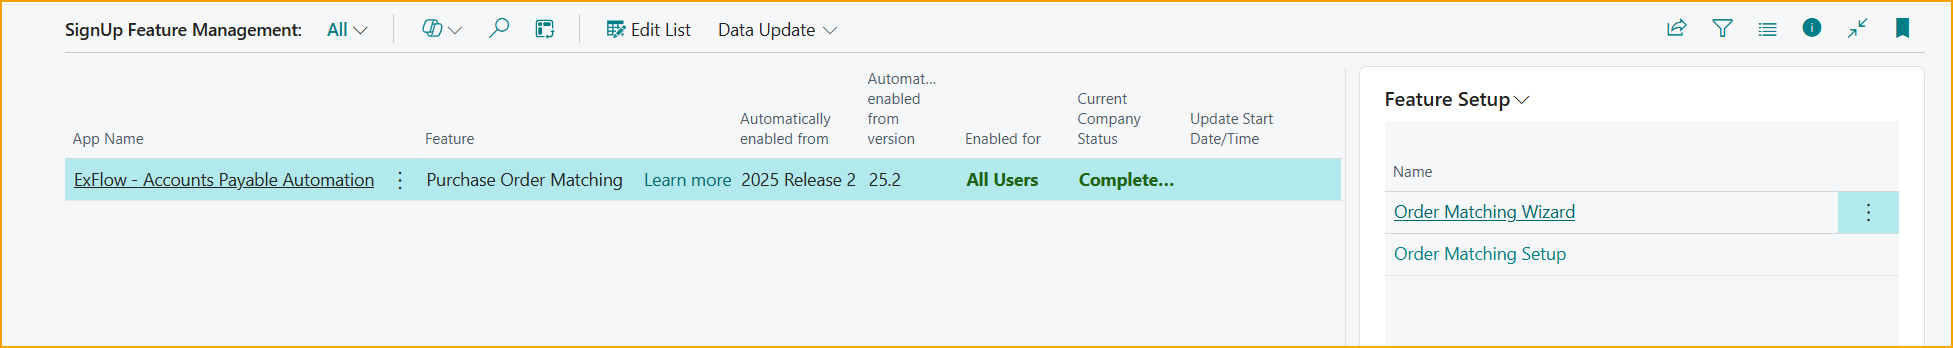
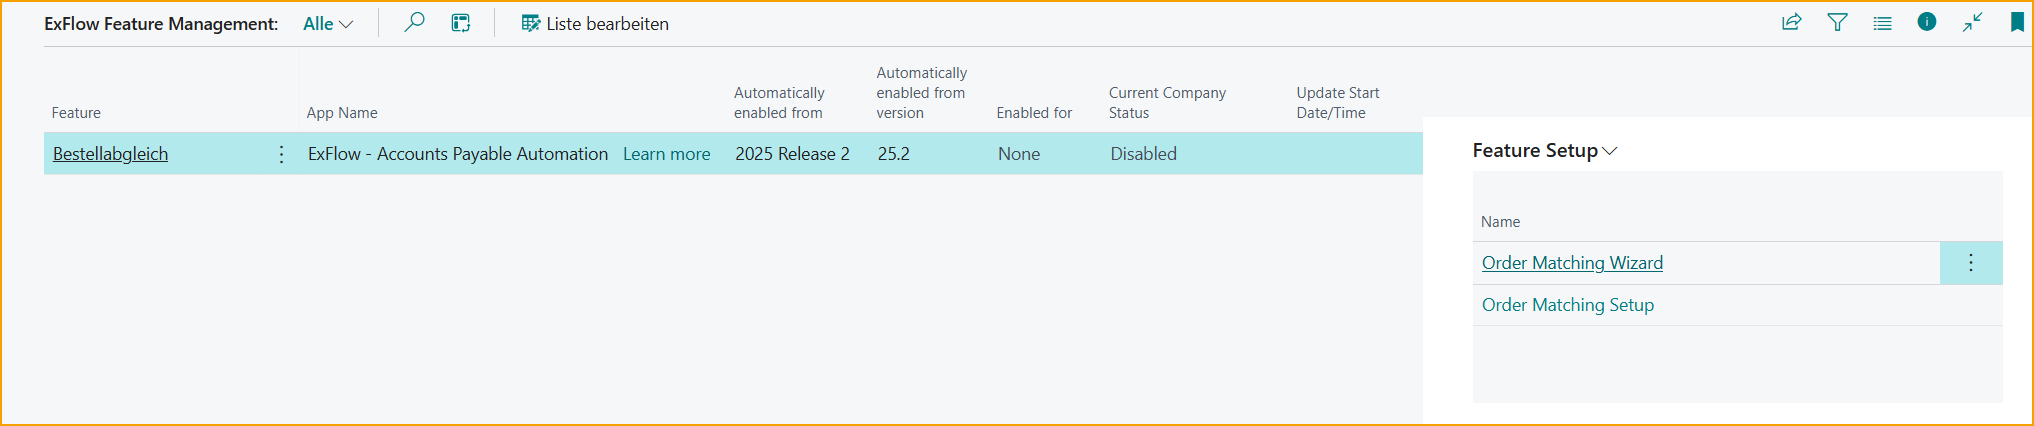
fm corr

diff --git a/i18n/es/docusaurus-plugin-content-docs/current/user-manual/1-welcome-to-exflow/6-get-started.md b/i18n/es/docusaurus-plugin-content-docs/current/user-manual/1-welcome-to-exflow/6-get-started.md
@@ -250,12 +250,12 @@ Cuando se activa una licencia, se mostrará el/los producto(s) con licencia:
 |Eliminar Licencia| Eliminar licencia
 
 
-## Gestión de Características de SignUp
-Vaya a: **Gestión de Características de SignUp**
+## Gestión de Características de ExFlow
+Vaya a: **Gestión de Características de ExFlow**
 
-La Gestión de Características de SignUp permite a los usuarios y desarrolladores controlar cuándo se habilitan características nuevas y más grandes. 
+La Gestión de Características de ExFlow permite a los usuarios y desarrolladores controlar cuándo se habilitan características nuevas y más grandes. 
 
-La Gestión de Características de SignUp funciona con el Proveedor de Licencias y solo permitirá que se habilite una característica si hay una licencia apropiada disponible para la aplicación y/o característica.
+La Gestión de Características de ExFlow funciona con el Proveedor de Licencias y solo permitirá que se habilite una característica si hay una licencia apropiada disponible para la aplicación y/o característica.
 
 ![FM](/img/media/FM-001.png)<br/>
 
@@ -275,6 +275,6 @@ Lea más sobre esto en la sección [Proceso de Coincidencia de Pedidos de Compra
 
 
 ### Nuevo Asistente de Coincidencia de Pedidos
-El Nuevo Asistente de Coincidencia de Pedidos será visible si se utiliza el Proveedor de Licencias de SignUp y la nueva funcionalidad de Coincidencia de Pedidos está habilitada a través de la Gestión de Características de SignUp. 
+El Nuevo Asistente de Coincidencia de Pedidos será visible si se utiliza el Proveedor de Licencias de SignUp y la nueva funcionalidad de Coincidencia de Pedidos está habilitada a través de la Gestión de Características de ExFlow. 
 
 Lea más sobre esto en la sección [Nueva Experiencia de Coincidencia de Pedidos](https://docs.signupsoftware.com/business-central/docs/user-manual/approval-workflow/new-order-matching)

diff --git a/i18n/de/docusaurus-plugin-content-docs/current/user-manual/1-welcome-to-exflow/6-get-started.md b/i18n/de/docusaurus-plugin-content-docs/current/user-manual/1-welcome-to-exflow/6-get-started.md
@@ -250,12 +250,12 @@ Wenn eine Lizenz aktiviert ist, werden die lizenzierten Produkte angezeigt:
 |Lizenz löschen| Lizenz entfernen
 
 
-## SignUp Funktionsverwaltung
-Gehen Sie zu: **SignUp Funktionsverwaltung**
+## ExFlow Funktionsverwaltung
+Gehen Sie zu: **ExFlow Funktionsverwaltung**
 
-Die SignUp Funktionsverwaltung ermöglicht Benutzern und Entwicklern zu kontrollieren, wann neue und größere Funktionen aktiviert werden. 
+Die ExFlow Funktionsverwaltung ermöglicht Benutzern und Entwicklern zu kontrollieren, wann neue und größere Funktionen aktiviert werden. 
 
-Die SignUp Funktionsverwaltung arbeitet mit dem Lizenzanbieter zusammen und erlaubt die Aktivierung einer Funktion nur, wenn eine entsprechende Lizenz für die App und/oder Funktion verfügbar ist.
+Die ExFlow Funktionsverwaltung arbeitet mit dem Lizenzanbieter zusammen und erlaubt die Aktivierung einer Funktion nur, wenn eine entsprechende Lizenz für die App und/oder Funktion verfügbar ist.
 
 ![FM](/img/media/FM-001.png)<br/>
 
@@ -275,6 +275,6 @@ Lesen Sie mehr darüber im Abschnitt [Einkaufsauftragsabgleichprozess](https://d
 
 
 ### Neuer Auftragsabgleich-Assistent
-Der Neue Auftragsabgleich-Assistent wird sichtbar sein, wenn der SignUp Lizenzanbieter verwendet wird und die Neue Auftragsabgleichfunktionalität über die SignUp Funktionsverwaltung aktiviert ist. 
+Der Neue Auftragsabgleich-Assistent wird sichtbar sein, wenn der SignUp Lizenzanbieter verwendet wird und die Neue Auftragsabgleichfunktionalität über die ExFlow Funktionsverwaltung aktiviert ist. 
 
 Lesen Sie mehr darüber im Abschnitt [Neue Auftragsabgleich-Erfahrung](https://docs.signupsoftware.com/business-central/docs/user-manual/approval-workflow/new-order-matching)

diff --git a/docs/user-manual/1-welcome-to-exflow/6-get-started.md b/docs/user-manual/1-welcome-to-exflow/6-get-started.md
@@ -250,12 +250,12 @@ When a license is activated, the licensed product(s) will be displayed:
 |Delete License| Remove license
 
 
-## SignUp Feature Management
-Go to: **SignUp Feature Management**
+## ExFlow Feature Management
+Go to: **ExFlow Feature Management**
 
-SignUp Feature Management allows users and developers to control when new and bigger features are enabled. 
+ExFlow Feature Management allows users and developers to control when new and bigger features are enabled. 
 
-SignUp Feature Management works with License Provider and will only allow a feature to be enabled if an appropriate license is available for the app and/or feature.
+ExFlow Feature Management works with License Provider and will only allow a feature to be enabled if an appropriate license is available for the app and/or feature.
 
 ![FM](/img/media/FM-001.png)<br/>
 
@@ -275,6 +275,6 @@ Read more about this under section [Purchase Order Matching Process](https://doc
 
 
 ### New Order Matching Wizard
-The New Order Matching Wizard will be visible if SignUp License Provider is used and the New Order Matching functionality is enabled via SignUp Feature Management. 
+The New Order Matching Wizard will be visible if SignUp License Provider is used and the New Order Matching functionality is enabled via ExFlow Feature Management. 
 
 Read more about this under section [New Order Matching Experience](https://docs.signupsoftware.com/business-central/docs/user-manual/approval-workflow/new-order-matching)

diff --git a/i18n/es/docusaurus-plugin-content-docs/current/user-manual/4-approval-workflow/20-new-order-matching.md b/i18n/es/docusaurus-plugin-content-docs/current/user-manual/4-approval-workflow/20-new-order-matching.md
@@ -6,11 +6,11 @@ custom_edit_url: null
 ---
 ## Nueva Experiencia de Coincidencia de Órdenes
 
-Para utilizar la nueva Experiencia de Coincidencia de Órdenes con el Motor de Coincidencia de Órdenes y todas sus mejoras, la nueva función de Coincidencia de Órdenes de Compra debe estar habilitada en la Gestión de Funciones de SignUp.
+Para utilizar la nueva Experiencia de Coincidencia de Órdenes con el Motor de Coincidencia de Órdenes y todas sus mejoras, la nueva función de Coincidencia de Órdenes de Compra debe estar habilitada en la Gestión de Funciones de ExFlow.
 
-### Gestión de Funciones de SignUp
+### Gestión de Funciones de ExFlow
 
-Vaya a: **Gestión de Funciones de SignUp** para habilitar la Nueva Función de Coincidencia de Órdenes.
+Vaya a: **Gestión de Funciones de ExFlow** para habilitar la Nueva Función de Coincidencia de Órdenes.
 
 ![ExFlow Import Journal - Nº de Orden](/img/media/FM-001.png)
  

diff --git a/i18n/de/docusaurus-plugin-content-docs/current/user-manual/4-approval-workflow/20-new-order-matching.md b/i18n/de/docusaurus-plugin-content-docs/current/user-manual/4-approval-workflow/20-new-order-matching.md
@@ -6,11 +6,11 @@ custom_edit_url: null
 ---
 ## Neue Auftragsabgleich-Erfahrung
 
-Um die neue Auftragsabgleich-Erfahrung mit der Auftragsabgleich-Engine und all ihren Verbesserungen zu nutzen, muss die neue Funktion für den Einkaufsauftragsabgleich in der SignUp Funktionsverwaltung aktiviert werden.
+Um die neue Auftragsabgleich-Erfahrung mit der Auftragsabgleich-Engine und all ihren Verbesserungen zu nutzen, muss die neue Funktion für den Einkaufsauftragsabgleich in der ExFlow Funktionsverwaltung aktiviert werden.
 
-### SignUp Funktionsverwaltung
+### ExFlow Funktionsverwaltung
 
-Gehen Sie zu: **SignUp Funktionsverwaltung**, um die neue Auftragsabgleich-Funktion zu aktivieren.
+Gehen Sie zu: **ExFlow Funktionsverwaltung**, um die neue Auftragsabgleich-Funktion zu aktivieren.
 
 ![ExFlow Import Journal - Auftragsnr.](../../images/FM-001.png)
  

diff --git a/docs/user-manual/4-approval-workflow/20-new-order-matching.md b/docs/user-manual/4-approval-workflow/20-new-order-matching.md
@@ -6,11 +6,11 @@ custom_edit_url: null
 ---
 ## New Order Matching Experience
 
-To use the new Order Matching Experience with the Order Matching Engine and all of its enhancements, the new Purchase Order Matching feature must be enabled in SignUp Feature Management.
+To use the new Order Matching Experience with the Order Matching Engine and all of its enhancements, the new Purchase Order Matching feature must be enabled in ExFlow Feature Management.
 
-### SignUp Feature Management
+### ExFlow Feature Management
 
-Go to: **SignUp Feature Management** to enable the New Order Matching Feature.
+Go to: **ExFlow Feature Management** to enable the New Order Matching Feature.
 
 ![ExFlow Import Journal - Order No.](/img/media/FM-001.png)
  
